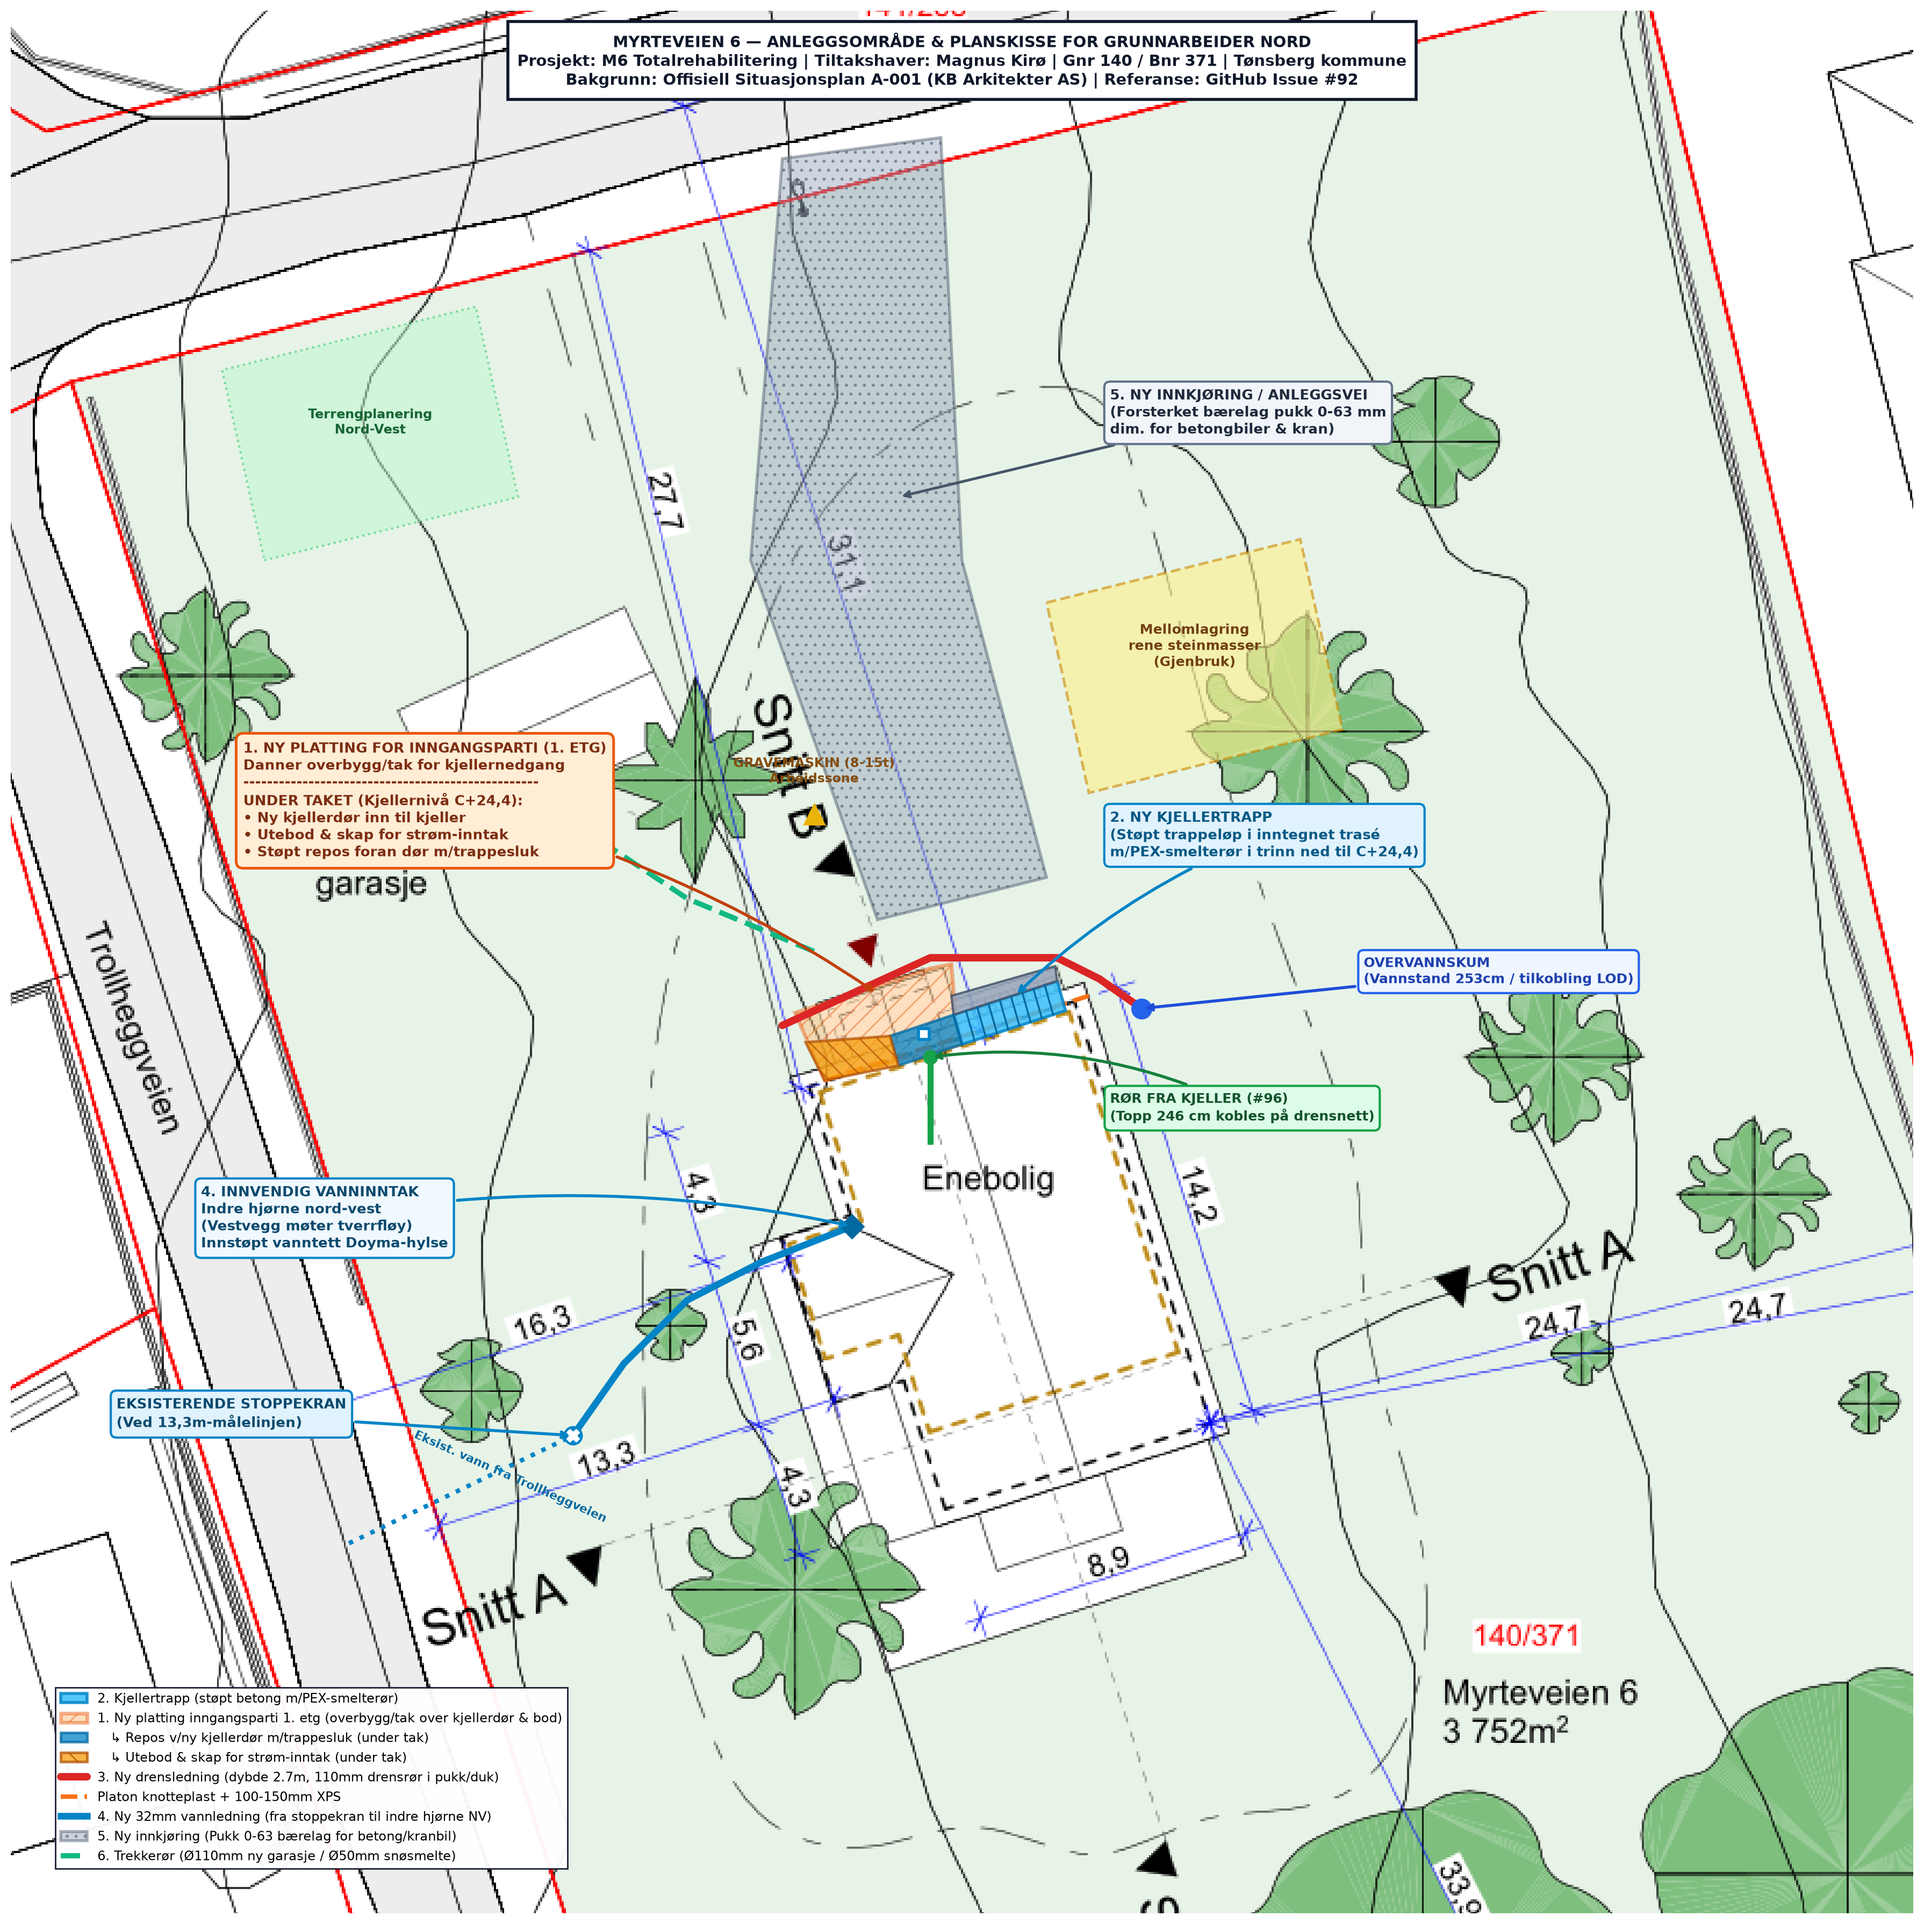
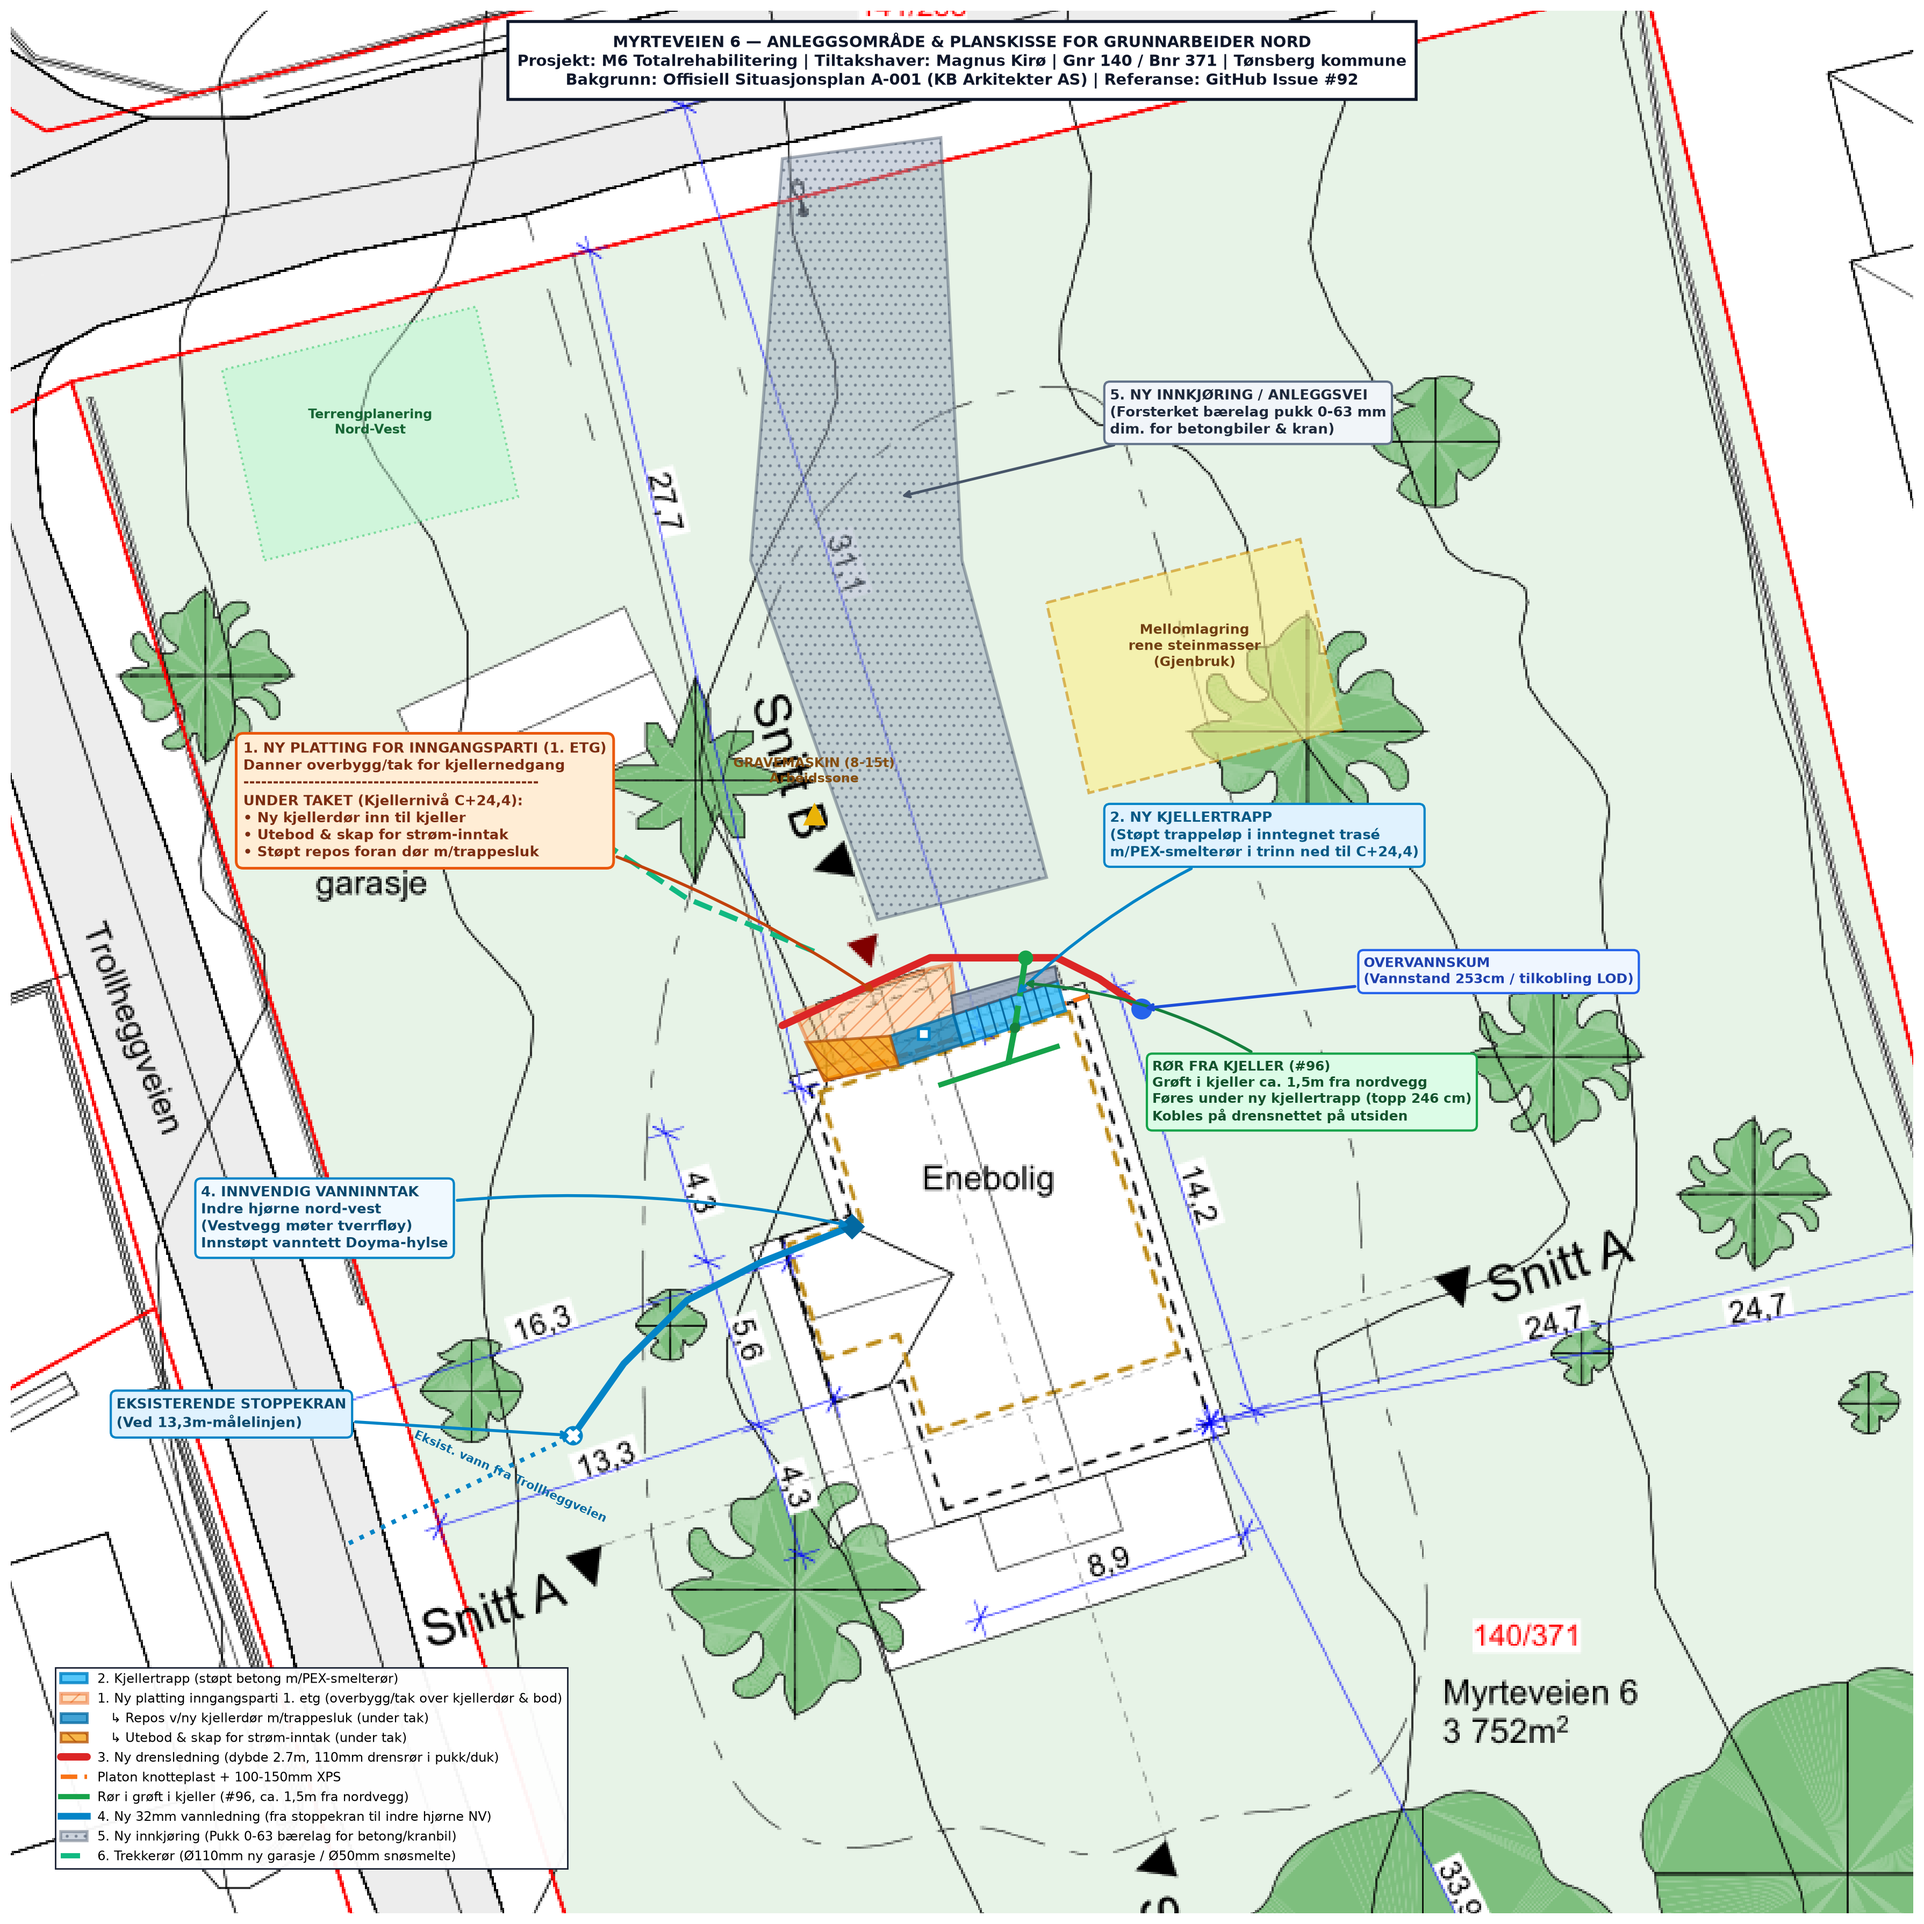
docs(grunnarbeid-nord): oppdater rorforing fra kjeller (#96) til ca 1.5m fra nordvegg og under ny kjellertrapp

diff --git a/scripts/generate_site_plan.py b/scripts/generate_site_plan.py
@@ -127,11 +127,20 @@ ax.plot(dren_x, dren_y, color="#dc2626", lw=5, solid_capstyle='round', zorder=8,
 ax.plot([905, 1030], [726, 686], color="#f97316", lw=3, ls="--", zorder=5, label="Platon knotteplast + 100-150mm XPS")
 
 # Rørgjennomføring fra kjeller (#96)
-ax.plot([955, 955], [755, 715], color="#16a34a", lw=4, zorder=7)
-ax.plot(955, 715, marker="o", markersize=9, color="#16a34a", zorder=8)
+# Grøft i kjeller ca. 1,5m fra nordveggen, føres under grunnmur og under ny kjellertrapp
+ax.plot([960, 1015], [728, 710], color="#16a34a", lw=3.5, ls="-", zorder=7,
+        label="Rør i grøft i kjeller (#96, ca. 1,5m fra nordvegg)")
+ax.plot([992, 995], [717, 701], color="#16a34a", lw=4, zorder=7)
+ax.plot([995, 999], [701, 675], color="#16a34a", lw=4, ls="--", zorder=8)  # Under kjellertrapp
+ax.plot([999, 1000], [675, 668], color="#16a34a", lw=4, zorder=7)  # Tilkobling drensledning
+ax.plot(995, 701, marker="o", markersize=6, color="#15803d", zorder=9)
+ax.plot(1000, 668, marker="o", markersize=9, color="#16a34a", zorder=9)
 ax.annotate(
-    "RØR FRA KJELLER (#96)\n(Topp 246 cm kobles på drensnett)",
-    xy=(955, 715), xytext=(1040, 745),
+    "RØR FRA KJELLER (#96)\n"
+    "Grøft i kjeller ca. 1,5m fra nordvegg\n"
+    "Føres under ny kjellertrapp (topp 246 cm)\n"
+    "Kobles på drensnettet på utsiden",
+    xy=(998, 680), xytext=(1060, 745),
     arrowprops=dict(arrowstyle="->", color="#15803d", lw=2, connectionstyle="arc3,rad=0.15"),
     fontsize=9, weight="bold", color="#14532d",
     bbox=dict(boxstyle="round,pad=0.4", fc="#dcfce7", ec="#16a34a", lw=1.5),

diff --git a/docs/ANBUDSFORESPORSEL_GRUNNARBEIDER_NORD.md b/docs/ANBUDSFORESPORSEL_GRUNNARBEIDER_NORD.md
@@ -108,7 +108,7 @@ flowchart TD
 * Montering av **100–150 mm XPS-isolasjon** (f.eks. XPS 300) utenpå knotteplasten for fullverdig utvendig isolering.
 * Legging av **110 mm perforert drensrør** på 10 cm avrettet pukkpute (11–16 mm) rundt hele nordveggen og det nye tilbygget.
 * Innpakking av drensrør og pukkpute i **fiberduk klasse N2** (geotekstil).
-* **Påkobling av eksisterende kjellergjennomføring:** Skjøte og tilkoble det nye røret fra kjelleren (#96, topp 246 cm) inn på drensnettet.
+* **Påkobling av eksisterende kjellergjennomføring:** Skjøte og tilkoble det nye røret fra kjelleren (#96, topp 246 cm) inn på drensnettet. Røret kommer fra innvendig grøft (ca. 1,5 m fra nordvegg inne), er ført under grunnmur og under den nye kjellertrappen, og kobles til drensledningen like på utsiden av trappevangen.
 * **Overvannskum / Resipient:** Kontroll og tilkobling mot overvannskum/LOD. Det sikres kontinuerlig fall fra bunn drensrør (kote ~C+24,1) mot stenkiste på egen tomt.
 
 ---
